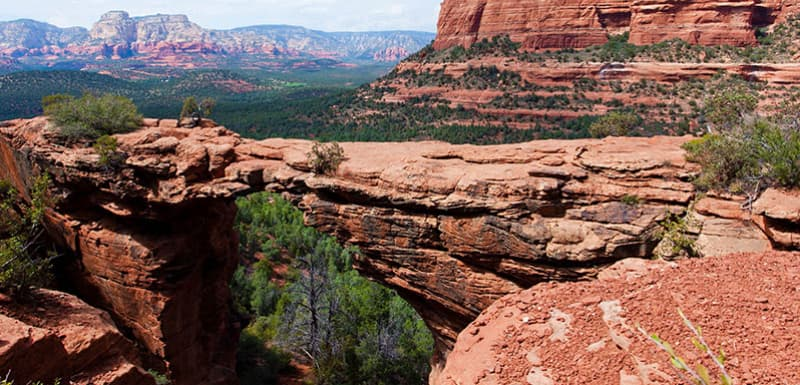
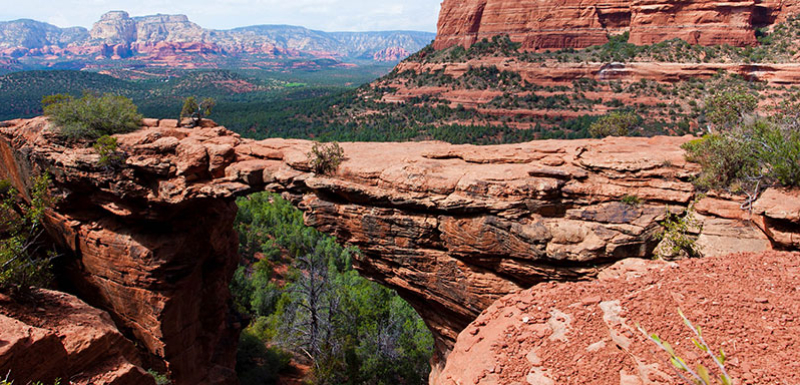
Заменяет картинку в блоке преимуществ

diff --git a/index.html b/index.html
@@ -59,7 +59,7 @@
           <h3 class="advantages-item-title real-city-title">Настоящий городок</h3>
           <p class="list-paragraph real-city-paragraph">Седона — не аттракцион для туристов, там течёт своя жизнь</p>
           </div>
-          <img class="advantages-list-image" src="images/advantages-image-1.jpg" width="800" height="384" alt="Балкон дома в Седоне.">
+          <img class="advantages-list-image" src="images/advantages-image-1.jpg" width="800" height="385" alt="Балкон дома в Седоне.">
         </li>
         <li class="advantages-item small-square-item">
           <div class="advantages-wrapper-same">

diff --git a/styles/styles.css b/styles/styles.css
@@ -216,6 +216,8 @@ align-items: center;
 
 .advantages-list-image {
   width: 800px;
+  display: block;
+  min-height: 385px;
 }
 
 .small-square-item,
